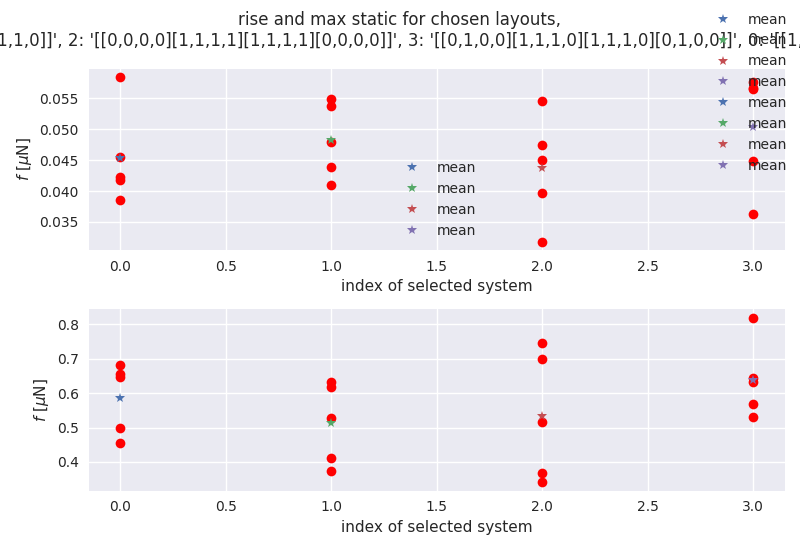
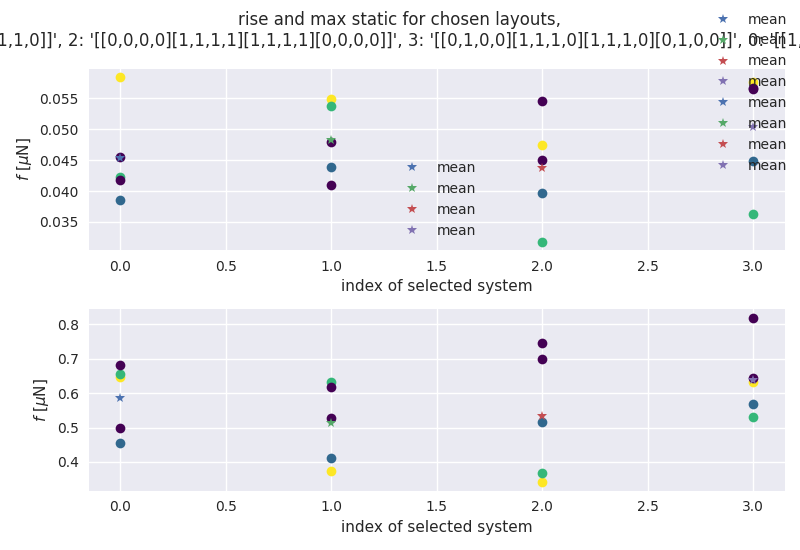
added virilis colour to load_vs normal force

diff --git a/python/post/get_load_curves.py b/python/post/get_load_curves.py
@@ -37,7 +37,7 @@ def get_load_curves():
 
         if isinstance(seed, tuple):
             for see in seed:
-                logfiles = f'../../simulations/sys_asp{asperities}_uc{uc}/vary_speed/sim_temp{temp}_force{force}_asp{asperities}_or{orientation}_time{time}_seed{see}_errgrid4_4/log.lammps'
+                logfiles = f'../../simulations/sys_asp{asperities}_uc{uc}/vary_normforce/sim_temp{temp}_force{force}_asp{asperities}_or{orientation}_time{time}_seed{see}_errgrid4_4/log.lammps'
                 print(logfiles)
                 if logfiles == []:
                     print(f'Warning, logfile not found; \n seed: {see}')
@@ -45,9 +45,9 @@ def get_load_curves():
                     print('--------------------------------------------------------------------------')
                     print('file: ', logfile)
                     matches = re.findall('\d+', logfile)
-                    outfile_lc = f'../../txt/load_curves/erratic/vary_speed/load_curves_temp{temp}_vel{vel}_force{force}_asp{asperities}_or{orientation}_seed{see}_errgrid4_4.txt'
-                    outfile_ms = f'../../txt/max_static/erratic/vary_speed/max_static_temp{temp}_vel{vel}_force{force}_asp{asperities}_or{orientation}_seed{see}_errgrid4_4.txt'
-                    outfile_rise = f'../../txt/rise/erratic/vary_speed/rise_temp{temp}_vel{vel}_force{force}_asp{asperities}_or{orientation}_seed{see}_errgrid4_4.txt'
+                    outfile_lc = f'../../txt/load_curves/erratic/vary_normforce/load_curves_temp{temp}_vel{vel}_force{force}_asp{asperities}_or{orientation}_seed{see}_errgrid4_4.txt'
+                    outfile_ms = f'../../txt/max_static/erratic/vary_normforce/max_static_temp{temp}_vel{vel}_force{force}_asp{asperities}_or{orientation}_seed{see}_errgrid4_4.txt'
+                    outfile_rise = f'../../txt/rise/erratic/vary_normforce/rise_temp{temp}_vel{vel}_force{force}_asp{asperities}_or{orientation}_seed{see}_errgrid4_4.txt'
 
                     extract_load_curves(logfile, None, 0, window = window, outfile_load_curves = outfile_lc, outfile_max_static = outfile_ms, outfile_rise = outfile_rise)
         else:
@@ -67,7 +67,7 @@ def get_load_curves():
 
 
 def all_curves(production = True):
-    asperities = 2
+    asperities = 8
     uc = 5
     temp = 2300
     vel = 5
@@ -80,18 +80,19 @@ def all_curves(production = True):
         force = 0
         filetemplate = f'../../simulations/sys_asp{asperities}_uc{uc}/production/sim_temp{temp}_force{force}_asp{asperities}_or{orientation}_time*_initnum*_seed*_errgrid4_4/log.lammps'
     else:
-        filetemplate = f'../../simulations/sys_asp{asperities}_uc{uc}/vary_speed/sim_temp{temp}_force*_asp{asperities}_or{orientation}_time{time}_seed*_errgrid4_4/log.lammps'
+        filetemplate = f'../../simulations/sys_asp{asperities}_uc{uc}/vary_normforce/sim_temp{temp}_force*_asp{asperities}_or{orientation}_time{time}_seed*_errgrid4_4/log.lammps'
 
     files = glob(filetemplate)
     for _file in files:
+        print('file: ', _file)
         if production: 
             outfile_lc= '../../txt/load_curves/production/load_curves_temp{}_vel{}_force{}_asp{}_or{}_initnum{}_seed{}_errgrid4_4.txt'
             outfile_ms = '../../txt/max_static/production/max_static_temp{}_vel{}_force{}_asp{}_or{}_initnum{}_seed{}_errgrid4_4.txt'
             outfile_rise = '../../txt/rise/production/rise_temp{}_vel{}_force{}_asp{}_or{}_initnum{}_seed{}_errgrid4_4.txt'
         else:
-            outfile_lc= '../../txt/load_curves/erratic/vary_speed/load_curves_temp{}_vel{}_force{}_asp{}_or{}_seed{}_errgrid4_4.txt'
-            outfile_ms = '../../txt/max_static/erratic/vary_speed/max_static_temp{}_vel{}_force{}_asp{}_or{}_seed{}_errgrid4_4.txt'
-            outfile_rise = '../../txt/rise/erratic/vary_speed/rise_temp{}_vel{}_force{}_asp{}_or{}_seed{}_errgrid4_4.txt'
+            outfile_lc= '../../txt/load_curves/erratic/vary_normforce/load_curves_temp{}_vel{}_force{}_asp{}_or{}_seed{}_errgrid4_4.txt'
+            outfile_ms = '../../txt/max_static/erratic/vary_normforce/max_static_temp{}_vel{}_force{}_asp{}_or{}_seed{}_errgrid4_4.txt'
+            outfile_rise = '../../txt/rise/erratic/vary_normforce/rise_temp{}_vel{}_force{}_asp{}_or{}_seed{}_errgrid4_4.txt'
 
 
 
@@ -100,7 +101,6 @@ def all_curves(production = True):
         print('seed: ',seed)
         if production:
             initnum = matches [-4] 
-            pass
         else:
             force = matches[3]
             
@@ -121,4 +121,4 @@ def all_curves(production = True):
 
 if __name__ == '__main__':
     #get_load_curves()
-    all_curves(production = True)
+    all_curves(production = False)

diff --git a/python/plot/plot_vary_speed.py b/python/plot/plot_vary_speed.py
@@ -47,7 +47,8 @@ def load_vs_normal_force():
     fig2, axs2 = plt.subplots(2)
     axs2 = axs2.ravel()
     axs = axs.ravel()
-    varyspeed = {2:(55910,60930,14424), 5:(72005,76229,37333), 7:(21702,77727,96687), 10:(56649,11605,41397)}
+    varyspeed = {1: (66526), 2:(55910,60930,14424), 3: (90254), 5:(72005,76229,37333), 7:(21702,77727,96687), 
+                 8: (48242), 10:(56649,11605,41397), 13: (63868)}
 
 
     c = plt.cm.viridis((3 - np.arange(len(varyspeed)))/(3 - 0 + 0.01))
@@ -65,10 +66,10 @@ def load_vs_normal_force():
 
 
         
-        for j,curve in enumerate(load_curves_all):
-            axs[i].plot(curve[:,0], curve[:,1], alpha = 0.4, c=c[j])
+        #for j,curve in enumerate(load_curves_all):
+        #    axs[i].plot(curve[:,0], curve[:,1], alpha = 0.4, c=c[j])
         for j, max_static in enumerate(max_static_all):
-            axs[i].plot(max_static[0], max_static[1], 'bo')
+        #    axs[i].plot(max_static[0], max_static[1], 'bo')
             axs2[0].plot(vel, max_static[1], 'o', c=c[j])
         #axs2[0].plot(normforce, max_static_mean[1], '*', label='mean')
         for j,rise in enumerate(rise_all):
@@ -77,12 +78,12 @@ def load_vs_normal_force():
         axs2[0].legend()
 
     
-        axs[i].plot(load_curves_mean[0,:,0], load_curves_mean[0,:,1], label = f'average')
-        axs[i].legend()
-        axs[i].set_xlabel(r"$t_p$ [ns]")
-        axs[i].set_ylabel(r"$f$ [$\mu$N]")
-        axs[i].set_title(f'velocity {vel} [m/s]')
-        axs[i].set_ylim([-0.02, 0.14])
+        #axs[i].plot(load_curves_mean[0,:,0], load_curves_mean[0,:,1], label = f'average')
+        #axs[i].legend()
+        #axs[i].set_xlabel(r"$t_p$ [ns]")
+        #axs[i].set_ylabel(r"$f$ [$\mu$N]")
+        #axs[i].set_title(f'velocity {vel} [m/s]')
+        #axs[i].set_ylim([-0.02, 0.14])
 
     fig.suptitle(f"Load curves for the chess system with increasing top plate velocity")
     fig.tight_layout(pad=1.8)
@@ -90,7 +91,7 @@ def load_vs_normal_force():
     outname = 'vary_vel.png'
 
     print(f'saved fig to {fig_dir + outname}')
-    fig.savefig(fig_dir + outname, dpi = 200)
+    #fig.savefig(fig_dir + outname, dpi = 200)
 
     axs2[0].set_title('maximum static')
     axs2[1].set_title('slope of sigmoid fit')

diff --git a/python/plot/plot_load_curves.py b/python/plot/plot_load_curves.py
@@ -442,7 +442,7 @@ def load_vs_normal_force():
     man_init_strange = {1: '[[0,1,1,0][0,1,1,0][0,1,1,0][0,1,1,0]]', 2: '[[0,0,0,0][1,1,1,1][1,1,1,1][0,0,0,0]]',
                         3: '[[0,1,0,0][1,1,1,0][1,1,1,0][0,1,0,0]]', 0: '[[1,0,1,0][0,1,0,1][1,0,1,0][0,1,0,1]]'}
 
-    #c = plt.cm.viridis(np.array(tuple(varyforce))/(0.01))
+    c = plt.cm.viridis((3 - np.arange(5))/(3 - 0 + 0.01))
     for i, (layout_int, seed) in enumerate(varystrange.items()):
         
         load_curves_all, load_curves_mean = load_load_curves(temp, vel, force, asperities, orientation,
@@ -463,14 +463,14 @@ def load_vs_normal_force():
         #print('glob heights file ',len(glob(heights_file)))
         #assert len(glob(heights_file)) == 1
         
-        for curve in load_curves_all:
-            axs[i].plot(curve[:,0], curve[:,1], alpha = 0.4)
-        for max_static in max_static_all:
+        for j, curve in enumerate(load_curves_all):
+            axs[i].plot(curve[:,0], curve[:,1], alpha = 0.4, c = c[j])
+        for j, max_static in enumerate(max_static_all):
             axs[i].plot(max_static[0], max_static[1], 'o')
-            axs2[0].plot(i, max_static[1], 'or')
+            axs2[0].plot(i, max_static[1], 'o', c = c[j])
         axs2[0].plot(i, max_static_mean[1], '*', label='mean')
-        for rise in rise_all:
-            axs2[1].plot(i, rise, 'or')
+        for j, rise in enumerate(rise_all):
+            axs2[1].plot(i, rise, 'o', c=c[j])
         axs2[1].plot(i, rise_mean, '*', label='mean')
         axs2[0].legend()
 
@@ -700,8 +700,8 @@ if __name__ == '__main__':
     #plot_all_curves_and_mean(temp, vel, force, orientation, grid, template_lc, template_ms, seeds)    
     #plot_mean_of_multiple()
     #plot_load_curves_as_funciton_of_top_thiccness()
-    #load_vs_normal_force()
+    load_vs_normal_force()
     #plot_single_loadcurve()
     #plot_production(temp, vel, force, uc, 8, time,orientation, grid, erratic, production = False)
     #test_rip_norm()
-    plot_production()
+    #plot_production()
